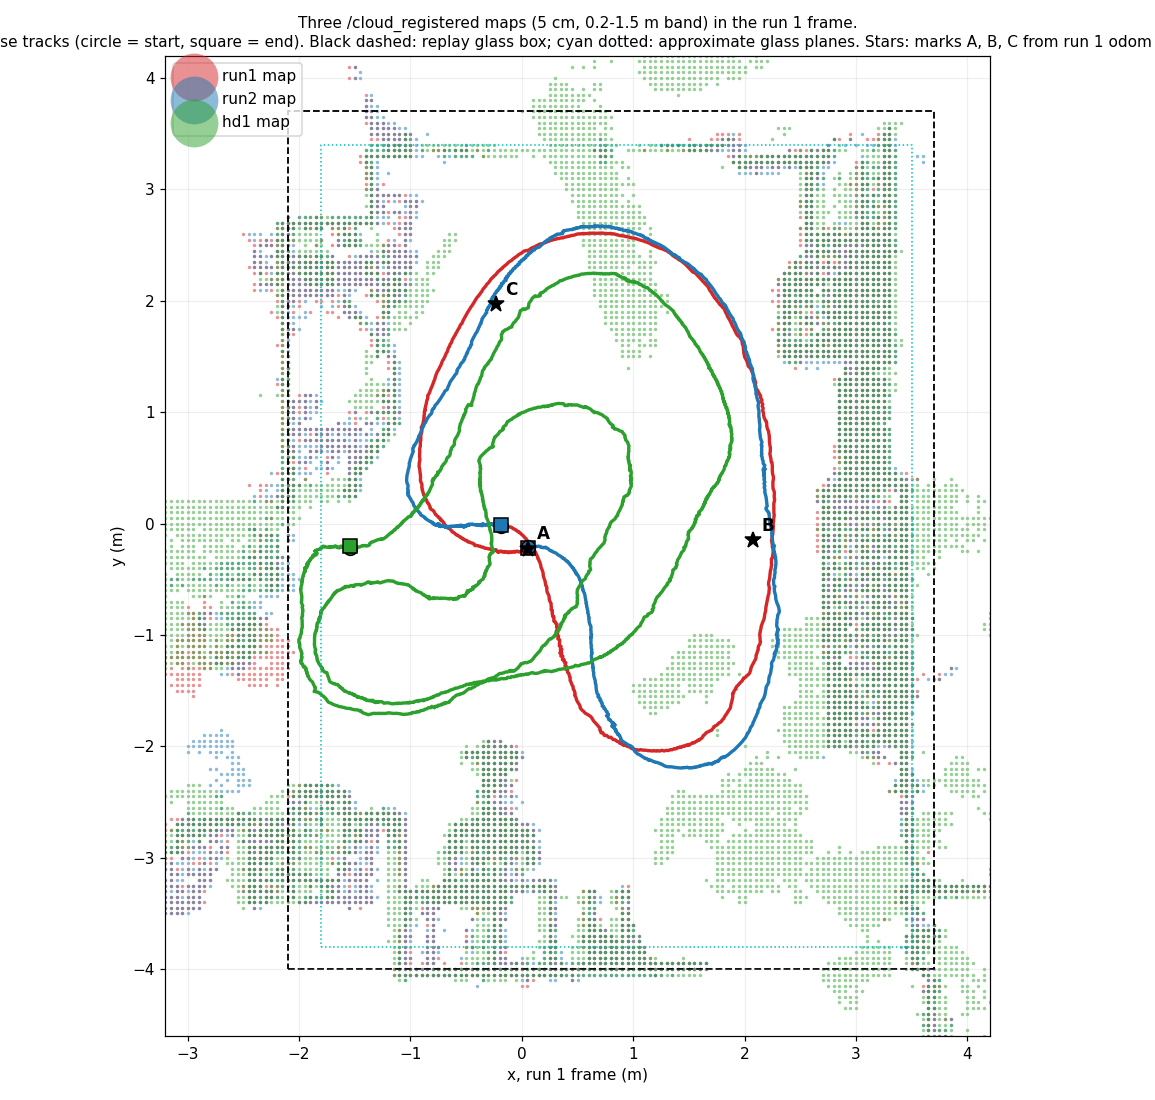
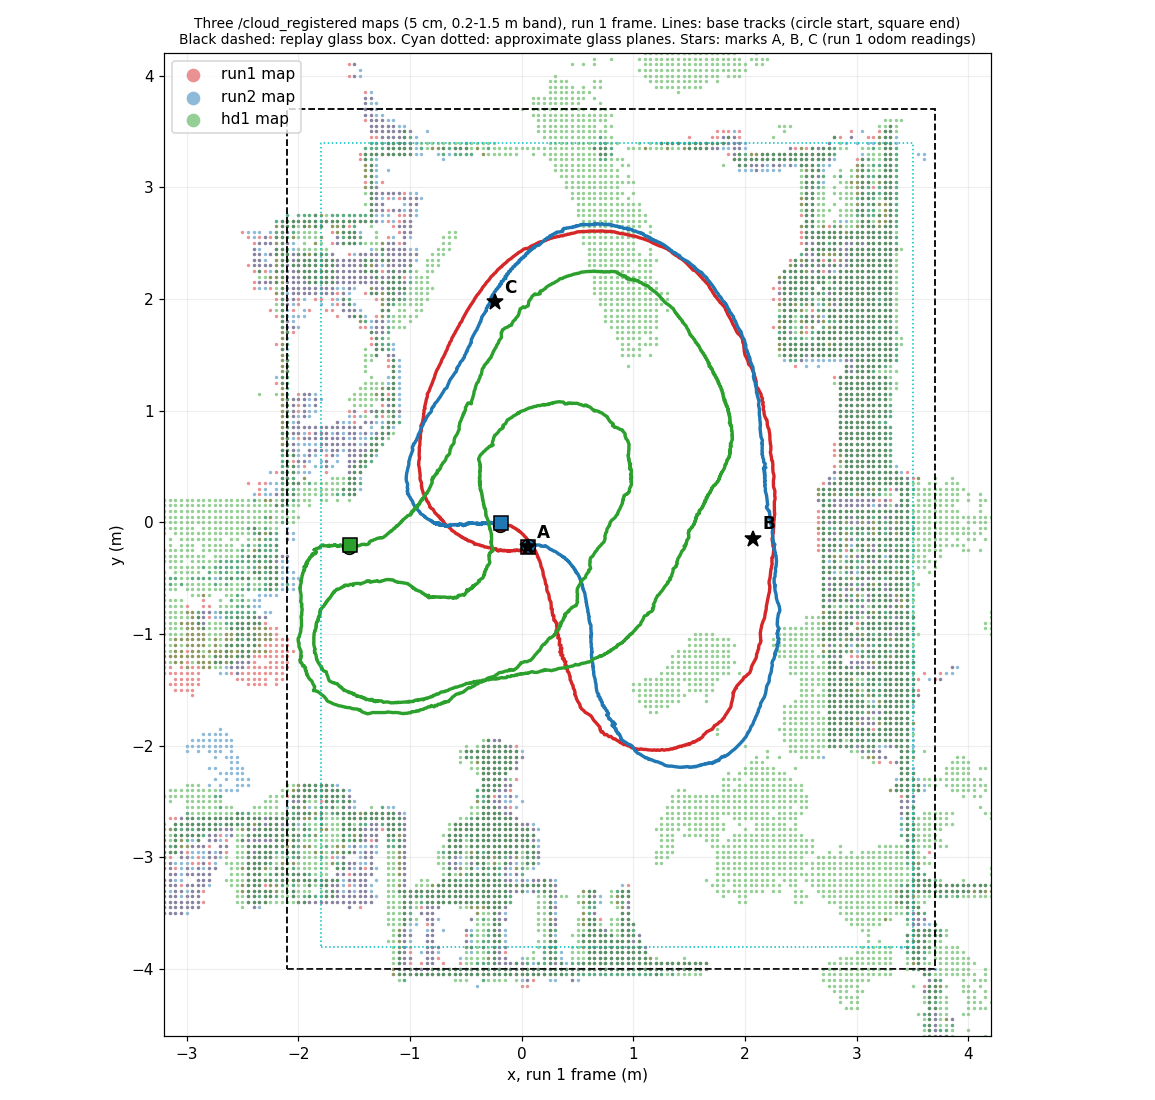
T3.5f: drift location steps 0 to 4: run 2 starts where run 1 ended, handdriven1 in the run 1 frame, overlay, heat maps, route error 6.7 cm at most, degeneracy plot

diff --git a/docs/sherman_docs/tools/fastlivo/live/analysis/t35f_drift/step34_plot.py b/docs/sherman_docs/tools/fastlivo/live/analysis/t35f_drift/step34_plot.py
@@ -50,7 +50,7 @@ for c, r in enumerate(("run1", "run2")):
         ax = axs[rr, c]; under(ax); a = S[(r, d)]
         sc = ax.scatter(a["x1"], a["y1"], c=a["eh"], s=26, cmap="magma_r", vmin=0, vmax=0.13, zorder=3)
         ax.plot(*maps["hd1"]["track"][:, :2].T, color=D.COL["hd1"], lw=.8, alpha=.6)
-        ax.set_title("%s, %s: error vs reference along the route (IMU track)" % (r, "pose at stamp + 0.15 s" if d == "d015" else "pose at scan stamp"), fontsize=10)
+        ax.set_title("%s, %s" % (r, "pose at stamp + 0.15 s" if d == "d015" else "pose at scan stamp"), fontsize=10)
         i = int(np.nanargmax(a["eh"])); ax.annotate("max %.2f m, t=%.0f s" % (a["eh"][i], a["t_s"][i]), (a["x1"][i], a["y1"][i]), xytext=(1.5, 3.3), arrowprops=dict(arrowstyle="->"), fontsize=9)
 plt.colorbar(sc, ax=axs, shrink=.5, label="horizontal error (m)"); fig.savefig(OUT + "/step3_map.png", dpi=100); plt.close(fig)
 
@@ -61,8 +61,8 @@ for ax, r in zip(axs, ("run1", "run2", "hd1")):
     ang = np.radians(g["weak2_deg"] + math.degrees(math.atan2(F[1, 0], F[0, 0])))
     under(ax); sc = ax.scatter(p[:, 0], p[:, 1], c=g["lam2_min"], s=30, cmap="viridis", vmin=0.08, vmax=0.14, zorder=3)
     ax.quiver(p[:, 0], p[:, 1], np.cos(ang), np.sin(ang), pivot="mid", scale=11, width=0.003, headwidth=0, headlength=0, headaxislength=0, color="k", zorder=4)
-    ax.set_title("%s: smallest horizontal eigenvalue (colour) and its direction (tick); median %.3f, min %.3f" % (r, np.median(g["lam2_min"]), g["lam2_min"].min()), fontsize=9)
-plt.colorbar(sc, ax=axs, shrink=.6, label="smallest eigenvalue of mean(n n^T), horizontal (1/3 would be balanced in 3D)"); fig.savefig(OUT + "/step4_weak.png", dpi=100); plt.close(fig)
+    ax.set_title("%s: lambda_min median %.3f, min %.3f" % (r, np.median(g["lam2_min"]), g["lam2_min"].min()), fontsize=9)
+plt.colorbar(sc, ax=axs, shrink=.6, label="smallest horizontal eigenvalue of mean(n n^T); tick = weak direction"); fig.savefig(OUT + "/step4_weak.png", dpi=100); plt.close(fig)
 
 # ---- features: rank correlation of the error with route features (windows), and a 10 s table
 print("rank correlation (Spearman) of horizontal error with route features, windows of 1 s:")

diff --git a/docs/sherman_docs/tools/fastlivo/live/analysis/t35f_drift/step12.py b/docs/sherman_docs/tools/fastlivo/live/analysis/t35f_drift/step12.py
@@ -59,8 +59,8 @@ for lab in labels:
 for lab in labels:
     t = tracks[lab]; ax.plot(t[:, 0], t[:, 1], color=D.COL[lab], lw=2.2, path_effects=None); ax.plot(*t[0, :2], "o", color=D.COL[lab], mec="k", ms=9); ax.plot(*t[-1, :2], "s", color=D.COL[lab], mec="k", ms=9)
 decorate(ax)
-ax.set_title("Three /cloud_registered maps (5 cm, 0.2-1.5 m band) in the run 1 frame.\nLines: base tracks (circle = start, square = end). Black dashed: replay glass box; cyan dotted: approximate glass planes. Stars: marks A, B, C from run 1 odom readings", fontsize=10)
-ax.legend(markerscale=14, loc="upper left"); fig.tight_layout(); fig.savefig(D.OUT + "/step1_overlay.png", dpi=110); plt.close(fig)
+ax.set_title("Three /cloud_registered maps (5 cm, 0.2-1.5 m band), run 1 frame. Lines: base tracks (circle start, square end)\nBlack dashed: replay glass box. Cyan dotted: approximate glass planes. Stars: marks A, B, C (run 1 odom readings)", fontsize=9)
+ax.legend(markerscale=4, loc="upper left"); fig.tight_layout(); fig.savefig(D.OUT + "/step1_overlay.png", dpi=110); plt.close(fig)
 
 # ---- step 2
 def heat(src, dst, name):
